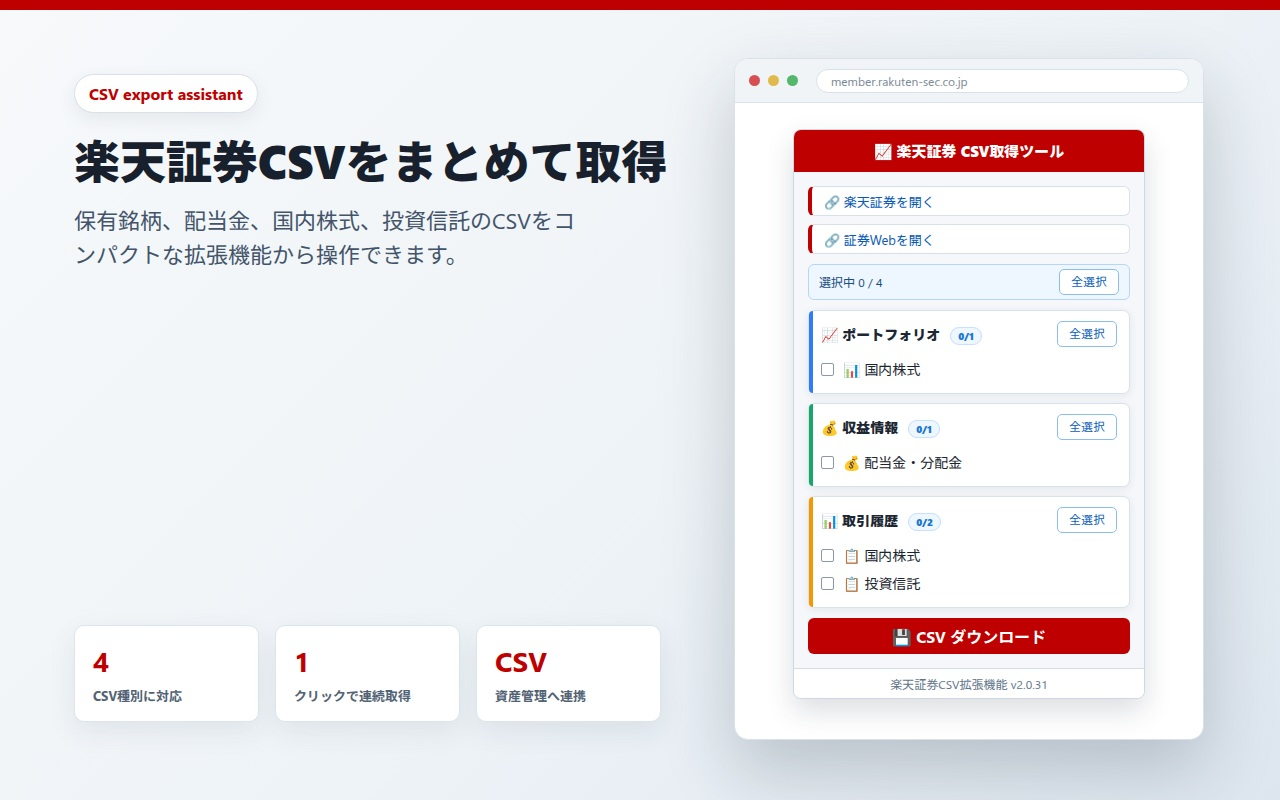
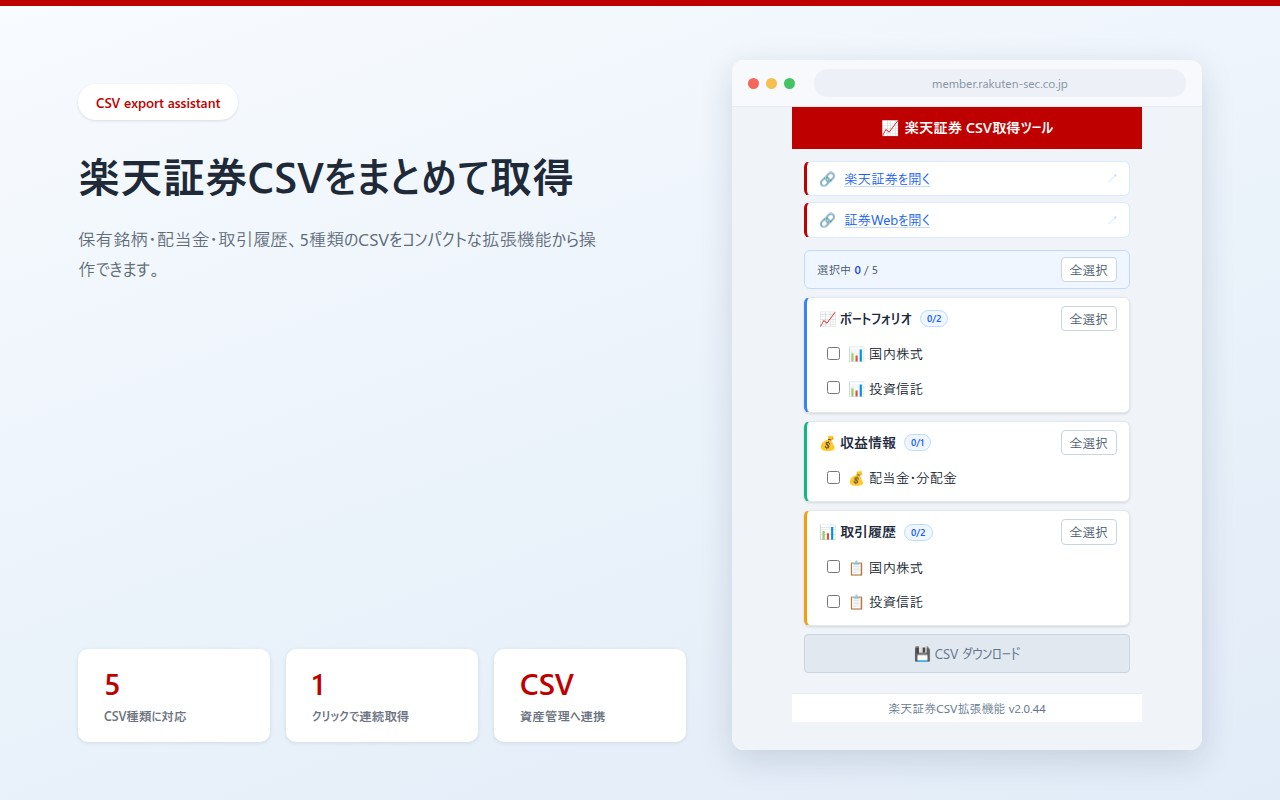
v2.0.44 のリリース準備(ストア提出用 ZIP) (#135)
* docs: CHANGELOG に 2.0.44 の節を追記

Generated with [Devin](https://devin.ai)

* chore: ストア掲載スクリーンショットを5種類版に撮り直し

Generated with [Devin](https://devin.ai)

---------

diff --git a/CHANGELOG.md b/CHANGELOG.md
@@ -4,6 +4,17 @@
 
 バージョン番号は [セマンティックバージョニング](https://semver.org/) に従います。
 
+## [2.0.44] - 2026-10-20
+
+### 追加
+- ダウンロードできるデータに「投資信託の保有残高」を追加（ポートフォリオに2種類目の選択肢）
+
+### 変更
+- MIT LICENSE を追加
+- 内部の整理・安定性の改善
+  - 検証済みのデッドコードを削除し、ドキュメントを実装に同期
+  - 開発依存の脆弱性を解消、依存パッケージの更新
+
 ## [2.0.43] - 2026-10-13
 
 ### 変更
@@ -106,7 +117,8 @@
 
 ## リンク形式の説明
 
-- [2.0.43]: 現在のバージョン
+- [2.0.44]: 現在のバージョン
+- [2.0.43]: https://github.com/zaichu6/rakuten-csv-extension/releases/tag/v2.0.43
 - [2.0.3]: https://github.com/zaichu6/rakuten-csv-extension/releases/tag/v2.0.3
 - [2.0.2]: https://github.com/zaichu6/rakuten-csv-extension/releases/tag/v2.0.2
 - [2.0.1]: https://github.com/zaichu6/rakuten-csv-extension/releases/tag/v2.0.1
